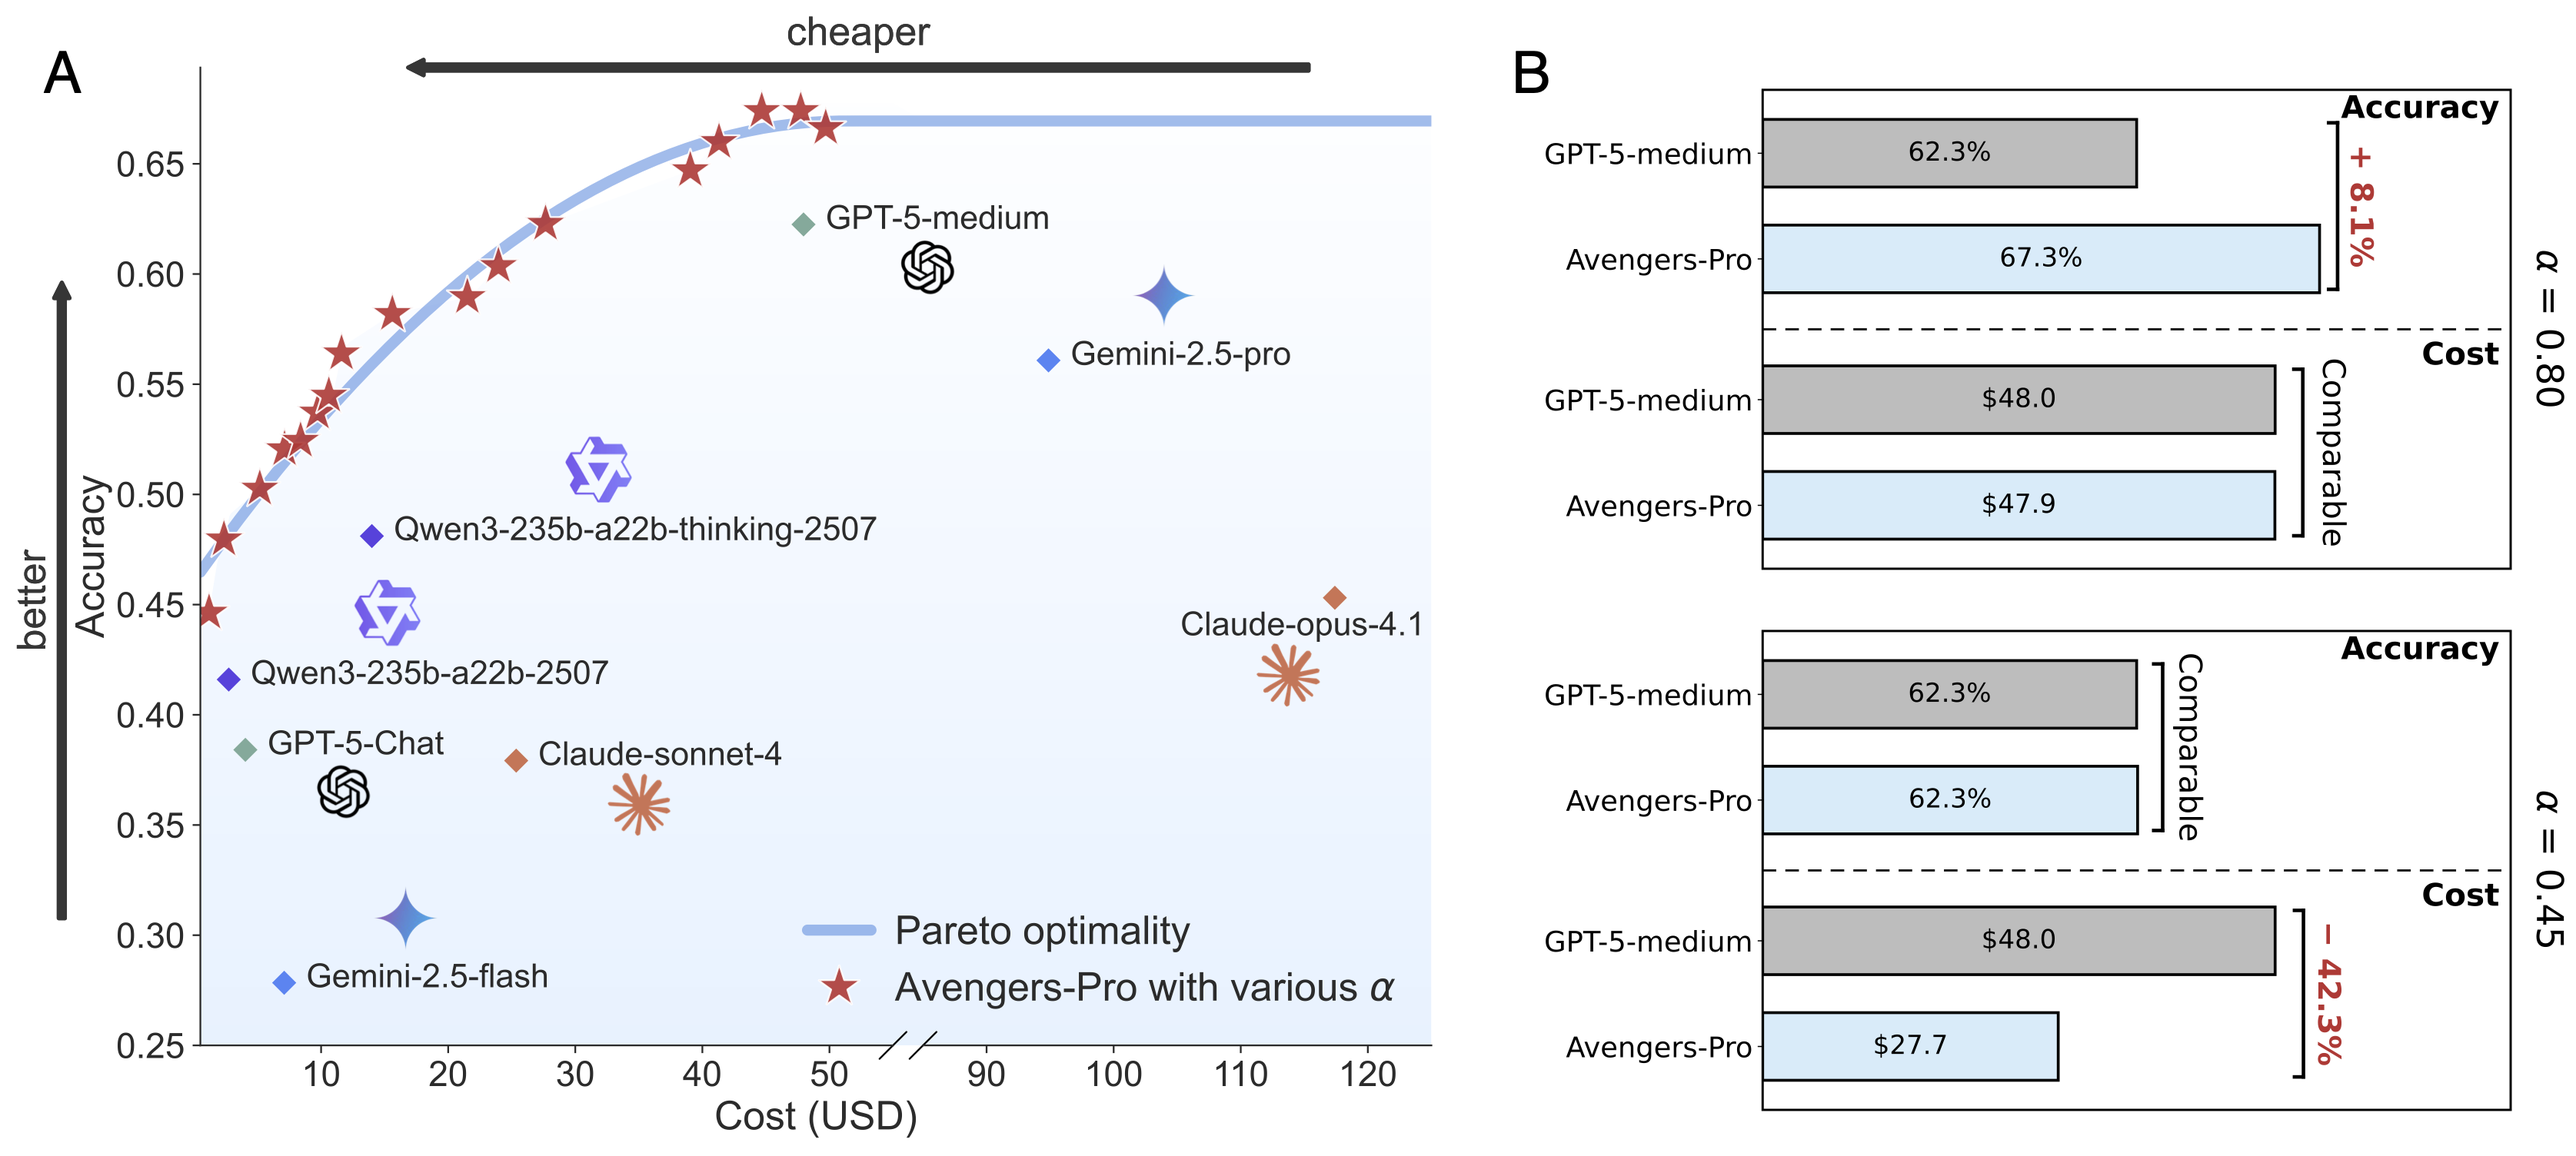
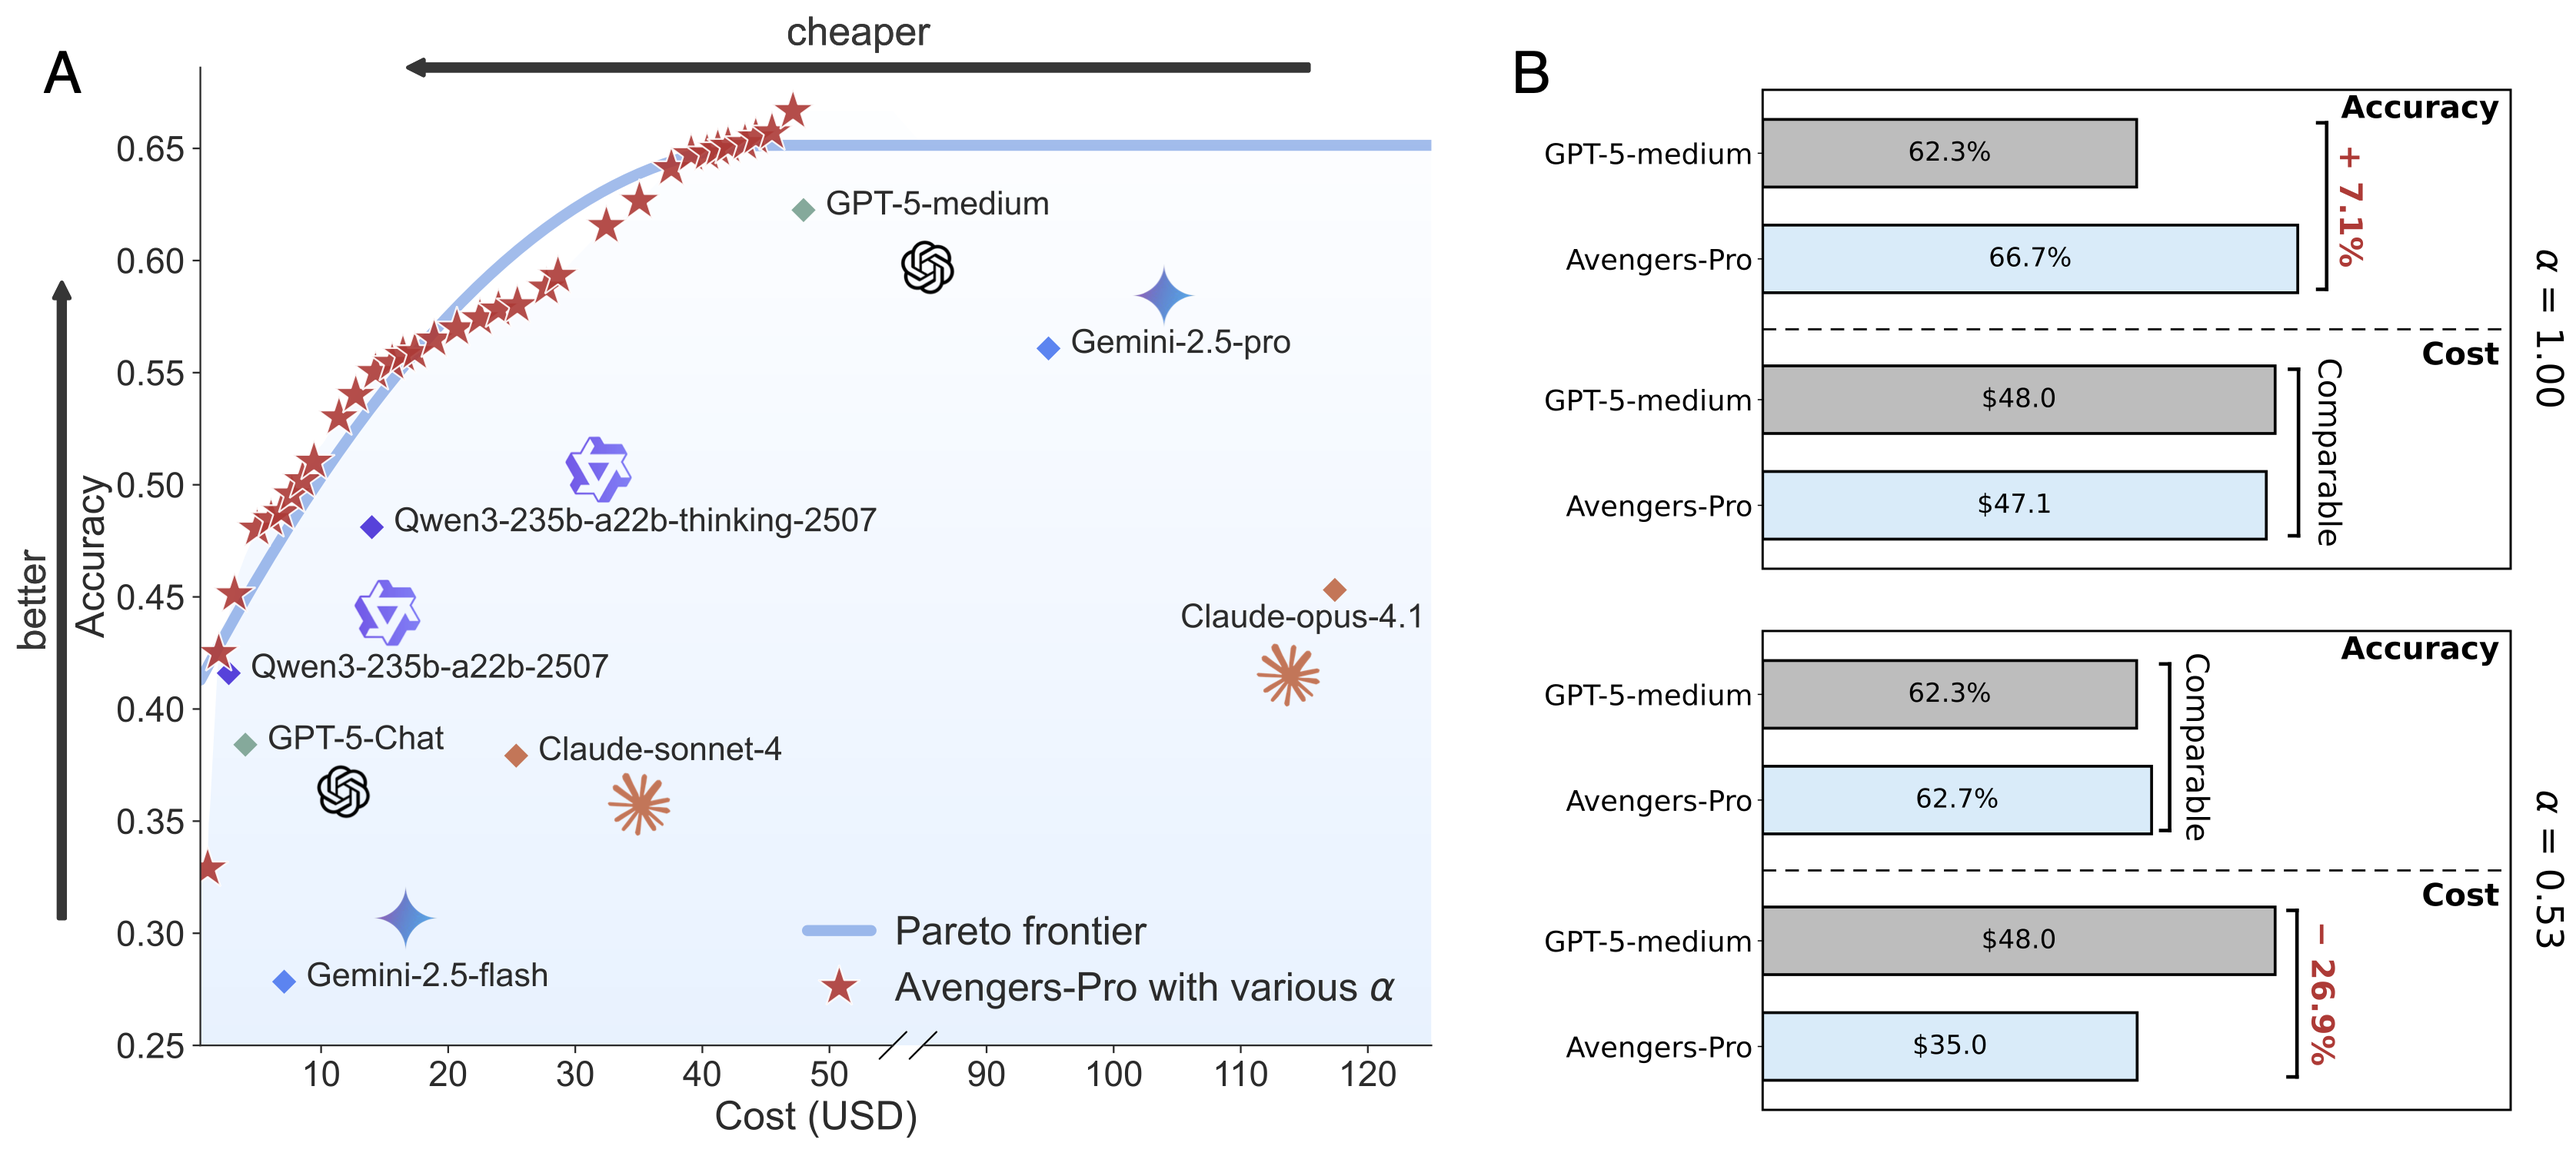
update readme

diff --git a/README.md b/README.md
@@ -23,9 +23,9 @@ Balancing performance and efficiency is a central challenge in large language mo
 
 The **Avengers-Pro** embeds and clusters incoming queries, then routes each to the most suitable model based on a performance-efficiency score. Across 6 challenging benchmarks and 8 leading models—including GPT-5-medium, Gemini-2.5-pro, and Claude-opus-4.1—the **Avengers-Pro** achieves state-of-the-art results:
 
-- 🏆 **+8% accuracy** improvement over the strongest single model (GPT-5-medium)
-- 💰 **−42% cost reduction** while maintaining equivalent accuracy  
-- ⚡ **−74% cost reduction** while achieving ~90% of peak performance
+- 🏆 **+7% accuracy** improvement over the strongest single model (GPT-5-medium)
+- 💰 **−27% cost reduction** while maintaining equivalent accuracy  
+- ⚡ **−63% cost reduction** while achieving ~90% of peak performance
 - 🎯 **Pareto-optimal** performance across all accuracy-cost trade-offs
 
 ## 📊 Experimental Results
@@ -37,7 +37,7 @@ The performance and efficiency of *Avengers-Pro* vs. single models. **Bold** ind
 | **Setting** | **ARC-AGI** | **GPQA-Diamond** | **HLE** | **LiveCodeBench** | **SimpleQA** | **τ²-bench** | **Avg. A** | **Cost** |
 |-------------|-------------|------------------|---------|-------------------|--------------|--------------|------------|----------|
 | **Gemini-2.5-flash** | 9.62 | 21.72 | 7.20 | 62.84 | 28.99 | 36.67 | 27.84 | $7.10 |
-| **Gemini-2.5-pro** | 33.08 | 84.85 | 23.09 | 78.67 | 54.80 | 62.00 | 55.19 | $94.87 |
+| **Gemini-2.5-pro** | 33.08 | 84.85 | 23.09 | 78.67 | 54.80 | 62.00 | 56.08 | $94.87 |
 | **Claude-4.1-opus** | 22.12 | 74.24 | 6.41 | 64.07 | 31.00 | 74.00 | 45.31 | $117.40 |
 | **Claude-4-sonnet** | 16.15 | 68.69 | 4.60 | 59.05 | 15.00 | 64.00 | 37.92 | $25.35 |
 | **Qwen3** | 9.22 | 58.59 | 9.22 | 66.26 | 53.00 | 53.33 | 41.60 | $2.73 |
@@ -45,21 +45,22 @@ The performance and efficiency of *Avengers-Pro* vs. single models. **Bold** ind
 | **GPT-5-chat** | 6.73 | 73.73 | 7.80 | 63.60 | 40.20 | - | 38.41 | $4.04 |
 | **GPT-5-medium** | 44.42 | 84.85 | **26.20** | 88.44 | 47.60 | **82.00** | 62.25 | $47.96 |
 | | | | | | | | | |
-| ***Avengers-Pro* (α=0)** | 11.67 | 61.67 | 9.33 | 67.51 | 51.33 | 0.00 | 44.63 | $1.19 |
-| ***Avengers-Pro* (α=0.3)¹** | 31.67 | 85.00 | 8.00 | 78.23 | **54.67** | 73.33 | 56.91 | $12.21 |
-| ***Avengers-Pro* (α=0.45)²** | 31.67 | **86.67** | 21.33 | 83.91 | **54.67** | 80.00 | 62.28 | $27.66 |
-| ***Avengers-Pro* (α=0.8)³** | **53.33** | **86.67** | 26.00 | **89.91** | **54.67** | 80.00 | **67.26** | $47.93 |
-| ***Avengers-Pro* (α=1)** | **53.33** | 83.33 | 25.33 | **89.91** | 53.33 | 80.00 | 66.62 | $49.70 |
+| ***Avengers-Pro* (α=0)** | 15.33 | 58.67 | 10.13 | 66.94 | 46.27 | 0.00 | 32.89 | $1.08 |
+| ***Avengers-Pro* (α=0.25)¹** | 29.33 | 67.00 | 10.00 | 76.53 | 53.60 | 72.89 | 51.56 | $9.69 |
+| ***Avengers-Pro* (α=0.39)²** | 29.33 | 78.67 | 12.67 | 84.79 | 55.07 | 76.89 | 56.24 | $17.81 |
+| ***Avengers-Pro* (α=0.53)³** | 51.67 | 80.00 | 25.46 | 87.45 | 54.93 | 76.44 | 62.66 | $35.05 |
+| ***Avengers-Pro* (α=0.8)** | **59.67** | 81.00 | 27.60 | 89.34 | **56.93** | 78.22 | 65.46 | $44.65 |
+| ***Avengers-Pro* (α=1)** | **59.67** | **85.67** | 28.67 | **89.59** | 56.40 | 80.00 | **66.66** | $47.13 |
 
 **Key Findings:**
-- ¹ *α=0.3*: Reaches 90% of GPT-5-medium's performance at **74% lower cost**
-- ² *α=0.45*: Matches GPT-5-medium's average accuracy while cutting cost by **42%**  
-- ³ *α=0.8*: Surpasses GPT-5-medium in average accuracy with **8% performance gain**
+- ¹ *α=0.25*: With **7%** performance gain over GPT-5-medium
+- ² *α=0.39*: Reaches 90% of GPT-5-medium's performance at **63%** lower cost
+- ³ *α=0.53*: Matches GPT-5-medium's average accuracy while cutting cost by **27%**
 
 ### Performance-Cost Trade-offs
 ![Weight Ablation](assets/weight_ablation_combined.png)
 
-*We gradually increase the trade-off parameter α, placing more weight on performance over efficiency. As α increases, the average accuracy increases rapidly for small α and then plateaus near α≈0.8. On the other hand, as α increases, cost remains low until about α≈0.45 before rising sharply. These trends reveal two elbows (around 0.45 and 0.8) that offer favorable trade-offs.*
+*We gradually increase the trade-off parameter α, placing more weight on performance over efficiency. As α increases, the average accuracy increases rapidly for small α and then plateaus near α≈0.6. On the other hand, as α increases, cost remains low until about α≈0.4 before rising sharply. These trends reveal two elbows (around 0.4 and 0.6) that offer favorable trade-offs.*
 
 ### Model Selection Distribution
 ![Model Selection](assets/model_selection_pies.png)
@@ -160,7 +161,6 @@ python balance_cluster_router.py \
   --clusters 64 \
   --performance_weight 0.8 \
   --cost_sensitivity 0.2 \
-  --min_accuracy 0.6 \
   --export_cluster models/
 ```
 
